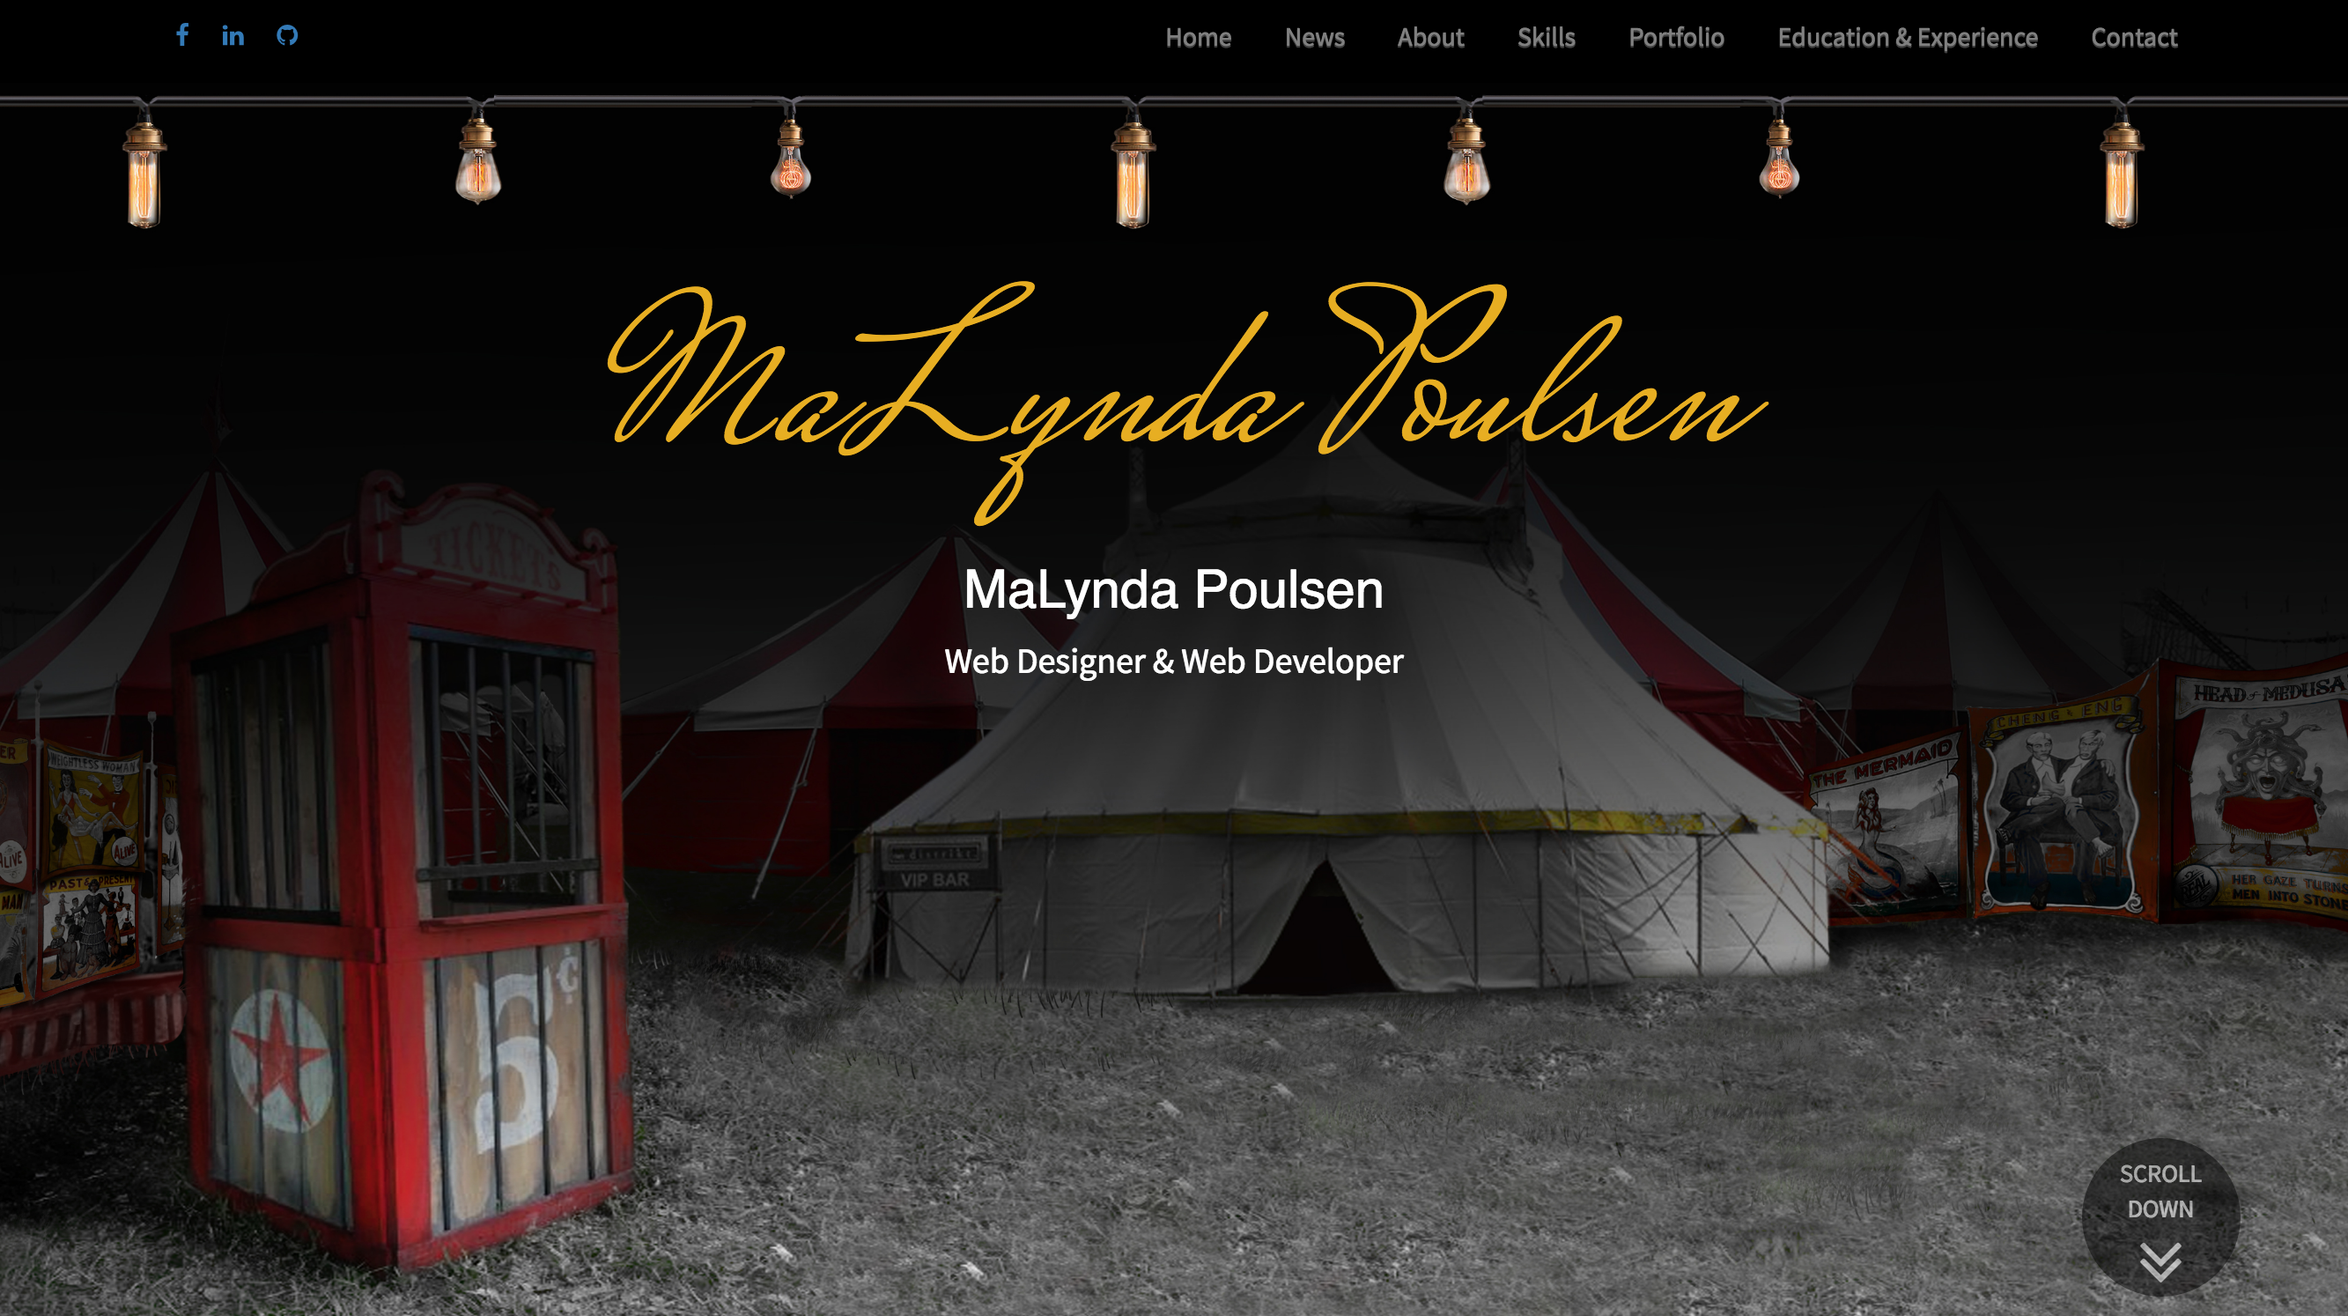
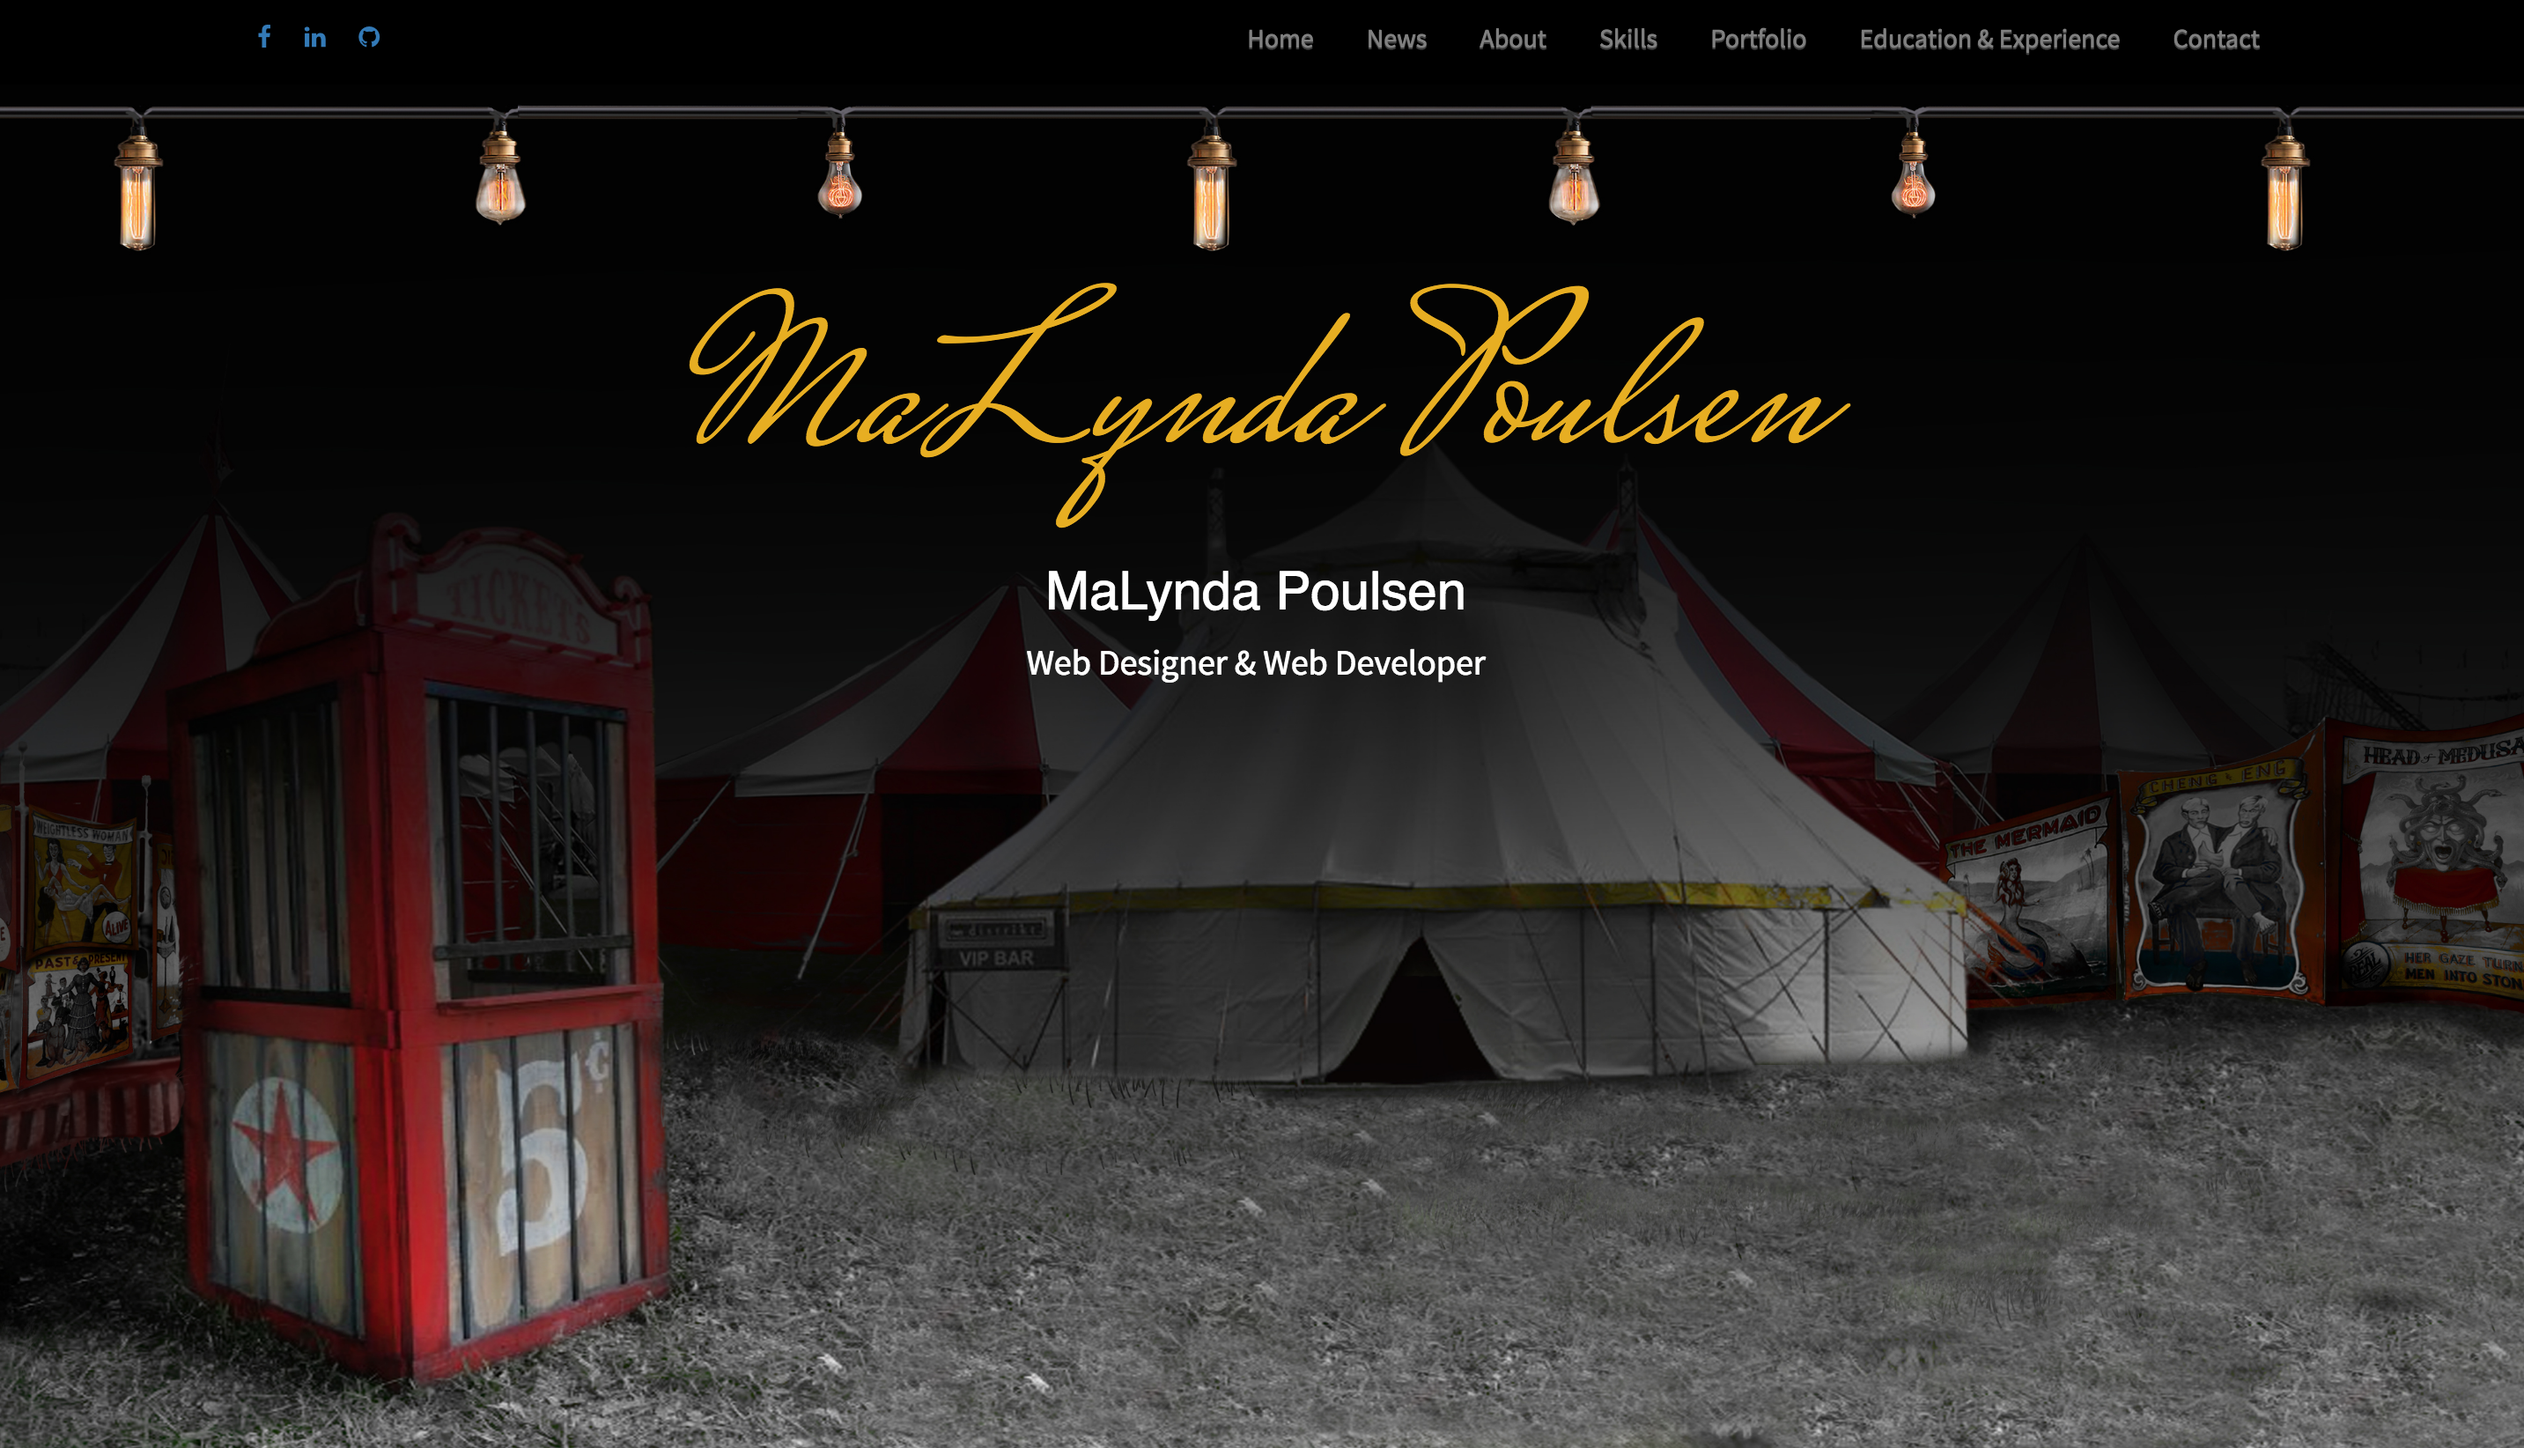
n

diff --git a/app.css b/app.css
@@ -5,7 +5,7 @@ h1, h2, h3, h4, h5, body, p{
   font-family: 'Source Sans Pro', sans-serif;
 }
 #main{
-   background:grey url('/img/Gallery2.jpg') center center no-repeat fixed;
+   background:grey url('/img/GalleryBW4.jpg') center center no-repeat fixed;
  -webkit-background-size: cover;
  -moz-background-size: cover;
  -o-background-size: cover;
@@ -15,7 +15,7 @@ height: 100%;
 #main h2{
     margin-top: 100px;
     text-align: center;
-       color: e7ae22;
+       color:goldenrod;
     font-family: 'Mrs Saint Delafield', cursive;
    padding-top:0px;
    font-size: 100px;
@@ -81,7 +81,11 @@ height: 100%;
        padding-top:150px;
    }*/
 #work{
-    padding-top:100px;
+    padding-top:70px;
+}
+#work h1{
+    color: lightgrey;
+    margin-bottom: 20px;
 }
 #work .row{
     margin-top: 35px;
@@ -140,7 +144,8 @@ portfolio-item{
 
 .portfolio-caption {
   color: white;
-}*/
+}
+
 #bookStore{
 animation-duration: 2s;
 animation-delay: 0s;
@@ -161,11 +166,12 @@ animation-iteration-count: 1;
 .btn{
 position: absolute;
 border: 2px solid goldenrod;
-background: transparent;
+background: white;
+opacity: .3;
 border-radius: 5px;
 font-size: 200%;
-color: white;
-opacity: .5;
+color: goldenrod;
+
 margin-top: 20px;
 height: 80px;
 width: 160px;
@@ -190,7 +196,7 @@ margin-left: 5px;
 #about{
     padding-top: 110px;
     padding-bottom: 110px;
-   background: black;
+   background: white;
 }
 .about img{
     height: 50%;
@@ -202,7 +208,7 @@ margin-left: 5px;
 
 .education h2, h4, h5, p, img{
     text-align: left;
-    color: grey;
+    color: lughtgrey;
     /*margin-left: 12%;*/
 }
 #about-me {
@@ -262,18 +268,7 @@ left: 0%;
     margin-top: 10px;
 }
 
-.module-skill {
-    position: relative;
-    background-color: black;
-    margin-left:-15px;
-    margin-right:-15px;
-    background-repeat: no-repeat;
-    background-position: center center;
-    -webkit-background-size: cover;
-    -moz-background-size: cover;
-    -o-background-size: cover;
-    background-size: cover;
-}
+
 #portfolio{
       background-color: black;
       margin-left: -15px;
@@ -286,15 +281,8 @@ padding-left: 5px;
 width: 100%;
 
 }
-/*#box{
-    width: 25%; 
-    background-color: blue;
-    padding-bottom: 25%;
-    position: relative;
-}*/
+
 body, html{
    height: 100%;
 }
-.wrapper{
-    overflow: hidden
-    }
+

diff --git a/components/second-components.html b/components/second-components.html
@@ -6,9 +6,10 @@
 			<!-- MODULE TITLE -->
 			<div class="row">
 				<div class="col-sm-6 col-sm-offset-3">
-					<h2 class="module-title font-alt">My Portfolio</h2>
+					<h1 class="module-title font-alt">Portfolio</h1>
 				</div>
 			</div>
+		
 			<!-- /MODULE TITLE -->
 
 			<!-- FILTER -->
@@ -38,7 +39,7 @@
 						<!-- /PORTFOLIO ITEM -->
 
 						<!-- PORTFOLIO ITEM -->
-		<div class="col-xs-12 col-sm-6 col-md-4">
+		<div class="col-xs-12 col-sm-12 col-md-12">
 							<div id="CSS" class="portfolio-item design games">
 								<a href="portfolio-single-1.html">
 									<img src="img/CSS Resume.png" alt="">

diff --git a/index.html b/index.html
@@ -80,6 +80,7 @@
     <main-components></main-components>
     <experience-components></experience-components>
     <second-components></second-components>
+    <contact-components></contact-components>
 
 
     <!--<footer id="scroller">
@@ -99,6 +100,7 @@
     <script src="components/main-components.js"></script>
     <script src="components/second-components.js"></script>
        <script src="components/experience-components.js"></script>
+       <script src="components/contact-components.js"></script>
 </body>
 
 </html>

diff --git a/components/experience-components.html b/components/experience-components.html
@@ -6,10 +6,10 @@
 		<div id="about-me" class="module-about module-parallax module-full-height bg-light-60">
 			<div class="row">
 				<div class="col-sm-6 col-sm-offset-3">
-					<h2 class="module-title font-alt">About</h2>
+					<h1 class="module-title font-alt">About</h1>
 
 					<div class="module-subtitle font-serif">
-						<em>I love making cool things!</em>
+						<em>I make cool things!</em>
 					</div>
 				</div>
 			</div>

diff --git a/components/main-components.html b/components/main-components.html
@@ -6,7 +6,7 @@
 <!--<h5>Web Designer and Developer</h5>-->
         <div id="buttons" >
           <div class="btn-group">
-  <button  type="button" class="btn main-btn">Experience</button>
+  <button  type="button" class="btn main-btn">About</button>
   <button  type="button" class="btn main-btn">Portfolio</button>
 </div>
 </div>

diff --git a/components/contact-components.js b/components/contact-components.js
@@ -1,0 +1,7 @@
+(function(){
+    angular.module("UpdatedResume")
+    .component('contactComponents', {
+        templateUrl: 'components/contact-components.html',
+
+    })
+})();

diff --git a/components/contact-components.html b/components/contact-components.html
@@ -1,0 +1,1 @@
+<h1>hello</h1>hello from contact
